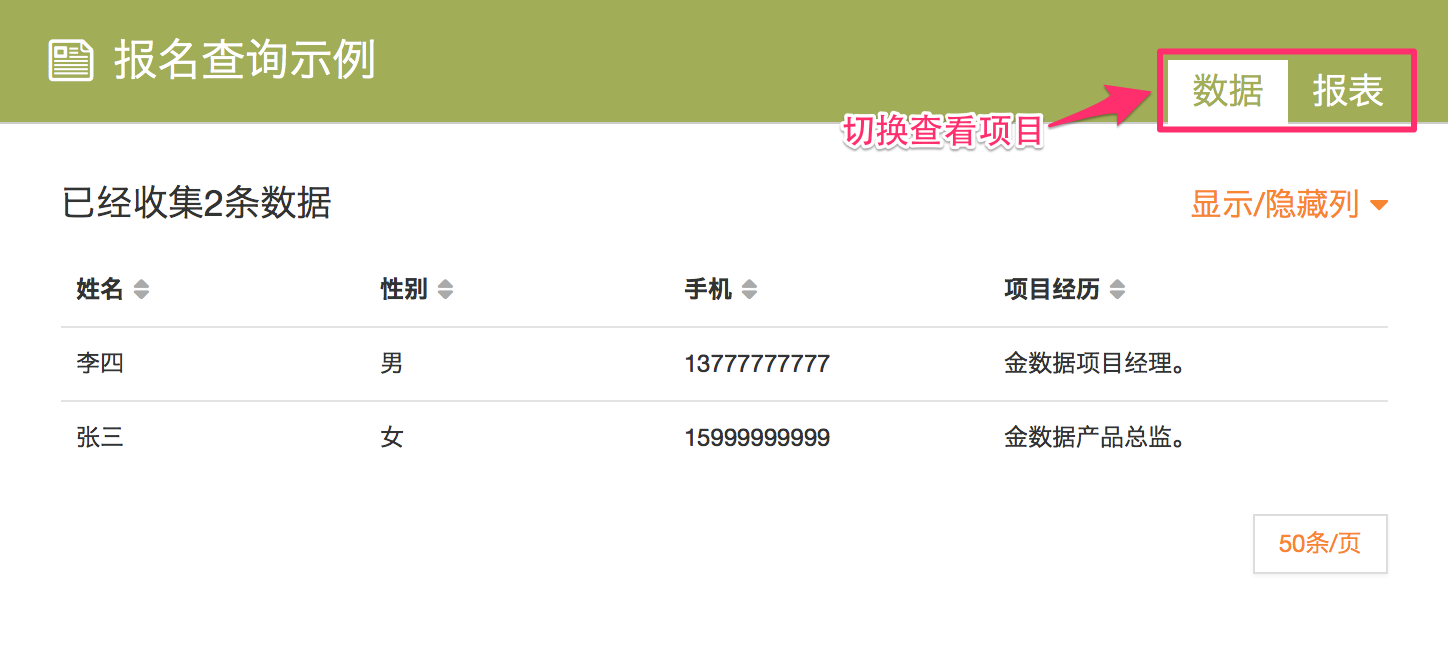
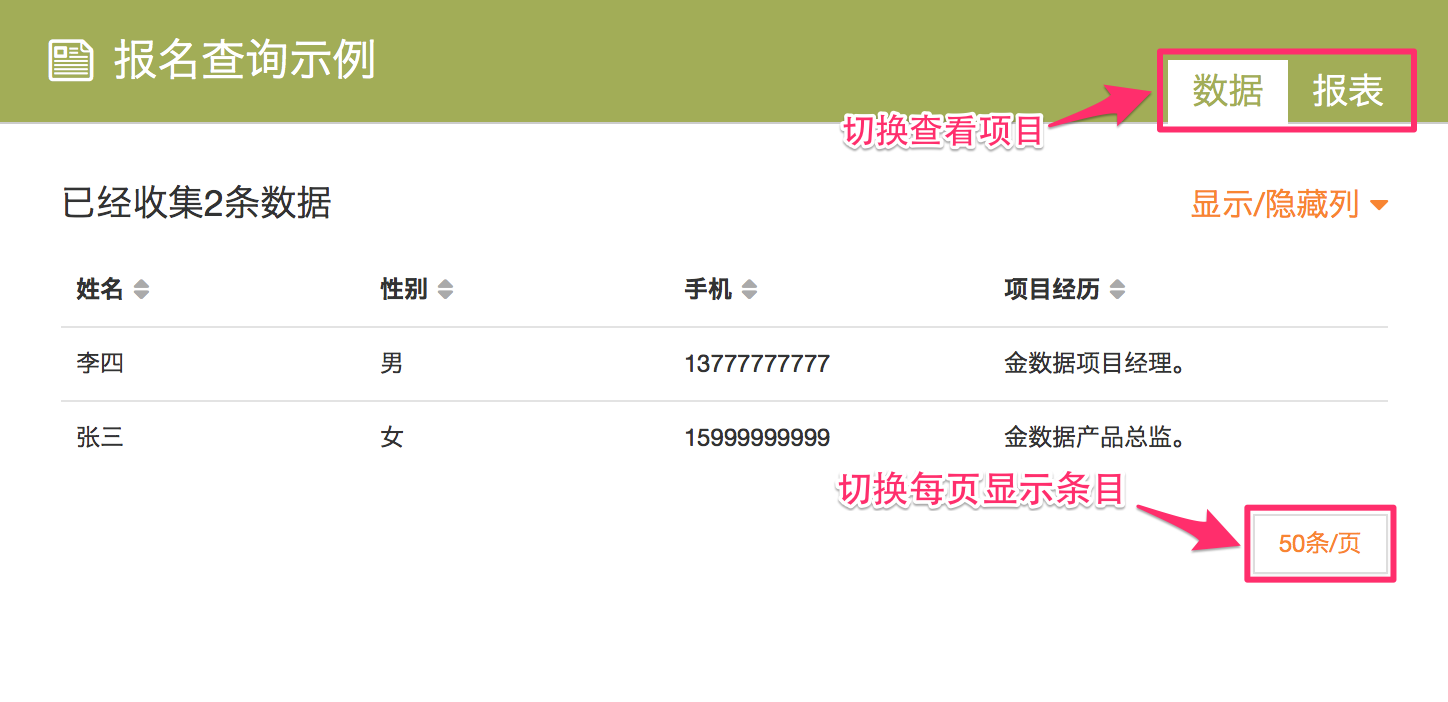
revise share-result

diff --git a/_posts/2014-2-7-share-result.md b/_posts/2014-2-7-share-result.md
@@ -25,5 +25,5 @@ category: publish
 3. 设置好了，让我们看看效果吧！打开页面提示输入查看密码。
    ![](http://jinshuju-help-pics.b0.upaiyun.com/images/share-result-pass.png)
 
-4. 密码正确，显示数据页面，您可以通过右上角切换到报表页面。
+4. 密码正确，显示数据页面，您可以通过右上角切换到报表页面，也可以点击右下角的“50条/页”切换每页显示的数据条数。
    ![](http://jinshuju-help-pics.b0.upaiyun.com/images/share-result-data.png)
